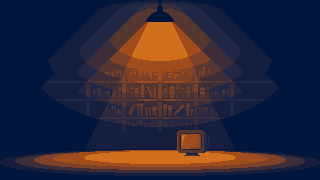
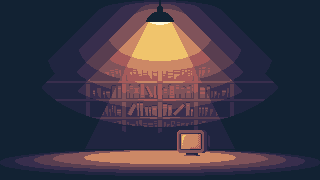
Add files via upload

Changed region(s): [[0.0938, 0.0, 0.9062, 0.9444]]

diff --git a/index.html b/index.html
@@ -11,38 +11,40 @@
       <div id="title" class="shutter turn-on shader">
         <h1>unwritten</h1>
         <ul>
-          <li><button type="button" class="primary" disabled><span aria-hidden="true" class="icon interactive arrow-right"></span> Continue</button></li>
-          <li><button type="button" class="primary"><span aria-hidden="true" class="icon interactive arrow-right"></span> New game</button></li>
-          <li><button type="button" class="light" onclick="document.getElementById('settings').showModal()"><span aria-hidden="true" class="icon interactive arrow-right"></span> Settings</button></li>
-          <li><button type="button" class="light" onclick="document.getElementById('credits').showModal()"><span aria-hidden="true" class="icon interactive arrow-right"></span> Credits</button></li>
+          <li><button type="button" class="primary" disabled><span aria-hidden="true" class="icon interactive arrow-right"></span>Continue</button></li>
+          <li><button type="button" class="primary"><span aria-hidden="true" class="icon interactive arrow-right"></span>New game</button></li>
+          <li><button type="button" class="light" data-action="dialog" data-target="settings"><span aria-hidden="true" class="icon interactive arrow-right"></span>Settings</button></li>
+          <li><button type="button" class="light" data-action="dialog" data-target="credits"><span aria-hidden="true" class="icon interactive arrow-right"></span>Credits</button></li>
+          <li><button type="button" class="secondary" data-action="fullscreen"><span aria-hidden="true" class="icon maximize"></span>Fullscreen</button></li>
         </ul>
 
         <dialog id="settings">
           <h2>Settings</h2>
-          <button type="button" onclick="document.fullscreenElement ? document.exitFullscreen() : document.documentElement.requestFullscreen()"><span aria-hidden="true" class="icon maximize"></span> fullscreen</button>
           <form method="dialog">
             <fieldset>
-              <legend>Shader?</legend>
-              <label><input class="tick" type="radio" name="shader" value="true" checked> Yes</label>
-              <label><input class="cross" type="radio" name="shader" value="false"> No</label>
+              <legend>Shader overlay?</legend>
+              <label><input data-action="shader" class="tick" type="radio" name="shader" value="1" checked> Yes</label>
+              <label><input data-action="shader" class="cross" type="radio" name="shader" value="0"> No</label>
             </fieldset>
             <fieldset>
-              <legend>Glitch?</legend>
-              <label><input class="tick" type="radio" name="glitch" value="true" checked> Yes</label>
-              <label><input class="cross" type="radio" name="glitch" value="false"> No</label>
+              <legend>Glitch effects?</legend>
+              <label><input data-action="glitch" class="tick" type="radio" name="glitch" value="1" checked> Yes</label>
+              <label><input data-action="glitch" class="cross" type="radio" name="glitch" value="0"> No</label>
             </fieldset>
-            <button type="submit" class="light"><span aria-hidden="true" class="icon cross"></span> Close</button>
+            <button type="submit" class="light"><span aria-hidden="true" class="icon cross"></span>Close</button>
           </form>
         </dialog>
 
         <dialog id="credits">
           <h2>Credits</h2>
-          <p>Handcrafted by @christopherabate</p>
+          <p>Pixel-handcrafted by <a href="#">@christopherabate</a></p>
+          <p>WCAG 2.2 AA compliant.</p>
           <form method="dialog">
-            <button type="submit" class="light"><span aria-hidden="true" class="icon cross"></span> Close</button>
+            <button type="submit" class="light"><span aria-hidden="true" class="icon cross"></span>Close</button>
           </form>
         </dialog>
       </div>
     </main>
+    <script src="./assets/js/scripts.js"></script>
   </body>
 </html>

diff --git a/assets/js/scripts.js b/assets/js/scripts.js
@@ -1,0 +1,13 @@
+const actions = {
+  dialog: (element) => document.getElementById(element.dataset.target)?.showModal(),
+  shader: (element) => document.querySelector("body > main > div")?.classList.toggle("shader", element.value === "1"),
+  glitch: (element) => document.body.classList.toggle("aberration", element.value === "1"),
+  fullscreen: () => document.fullscreenElement ? document.exitFullscreen() : document.documentElement.requestFullscreen(),
+};
+
+["click", "change"].forEach((type) => {
+  document.addEventListener(type, (event) => {
+    const element = event.target.closest("[data-action]");
+    element && actions[element.dataset.action]?.(element);
+  });
+});

diff --git a/assets/styles/icons.css b/assets/styles/icons.css
@@ -190,22 +190,23 @@
 .tick::before { --icon: var(--tick); }
 .cross::before { --icon: var(--cross); }
 
-.icon {
+.icon {display: inline-block;
   --color: currentColor;
   color: var(--color);
-  display: inline-block;
+  position: relative;
   width: calc(5 * var(--pixel));
-  text-align: left;
+  height: calc(5 * var(--pixel));
+  margin: 0 calc(2 * var(--pixel));
 }
 
 .icon::before {
-  display: inline-block;
+  position: absolute;
   content: "";
   pointer-events: none;
-  vertical-align: calc((5 * var(--pixel)));
+  inset: calc(-1 * var(--pixel));
+  display: inline-block;
   width: var(--pixel);
   height: var(--pixel);
-  margin-left: calc(-1 * var(--pixel));
   box-shadow: var(--icon);
 }
 

diff --git a/assets/styles/styles.css b/assets/styles/styles.css
@@ -90,10 +90,10 @@ dialog::before,
   --shutter-y: 0;
 }
 
-dialog::before,
+.shader dialog::before,
 .shader::before {
   background: 
-    /* scanlines */ linear-gradient(rgba(0, 0, 0, .5) 50%, rgba(255, 255, 255, .05) 50%) 0 0 / 100% 2px,
+    /* scanlines */ linear-gradient(rgba(0, 0, 0, .25) 50%, rgba(255, 255, 255, .05) 50%) 0 0 / 100% 2px,
     /* cyan */ radial-gradient(circle at 50% 0, rgb(0 255 255 / .05) 0%, transparent 50%),
     /* magenta */ radial-gradient(circle at 15% 100%, rgb(255 0 255 / .05) 0%, transparent 50%),
     /* yellow */ radial-gradient(circle at 85% 100%, rgb(255 255 0 / .05) 0%, transparent 50%),
@@ -117,8 +117,14 @@ legend {
     0 var(--pixel) 0 var(--darkest);
 }
 
+a {
+  --color: var(--primary);
+  color: var(--color);
+  position: relative;
+}
+
 #title {
-  background: url(../images/unwritten3.png ) no-repeat center / cover;
+  background: url(../images/unwritten.png ) no-repeat center / cover;
   display: grid;
   place-items: center;
 }

diff --git a/assets/styles/dialog.css b/assets/styles/dialog.css
@@ -1,7 +1,9 @@
 dialog {
-  color: inherit;
-  background: var(--dark);
-  border: var(--pixel) solid var(--darkest);
+  --color: var(--text);
+  color: color-mix(in srgb, var(--color) 10%, var(--text));
+  background-color: color-mix(in srgb, var(--color) 20%, var(--darkest));
+  border: none;
+  box-shadow: var(--box);
   padding: .5vmin 2.5vmin 2.5vmin 2.5vmin;
   position: relative;
 }

diff --git a/assets/styles/forms.css b/assets/styles/forms.css
@@ -48,7 +48,7 @@ button {
   background-color: color-mix(in srgb, var(--color) 80%, var(--text));
   position: relative;
   border: 0;
-  padding: 0 calc(4 * var(--pixel));
+  padding: 0 calc(2 * var(--pixel));
   margin: calc(2 * var(--pixel)) var(--pixel);
   user-select: none;
   cursor: pointer;

diff --git a/assets/styles/variables.css b/assets/styles/variables.css
@@ -20,7 +20,7 @@
 
   /* status */
   --success:   #77f261;
-  --warning:   #f2c261;
+  --warning:   #f0a962;
   --danger:    #f26161;
   --info:      #61c2f2;
   --focus:     var(--tertiary);